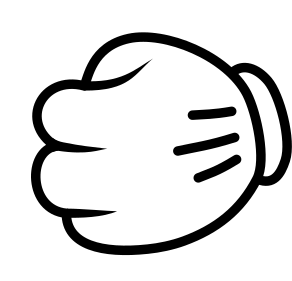
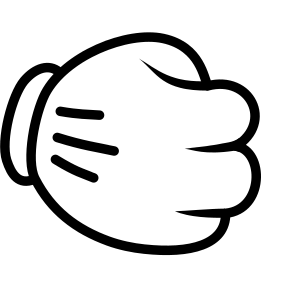
Add counting score

diff --git a/js/script.js b/js/script.js
@@ -3,13 +3,13 @@ function playGame(argPlayerInput) {
     clearMessages();
     let playerInput = argPlayerInput;
 
-    function getMoveName(argMoveId){
+    function getMoveImg(argMoveId){
         if(argMoveId == 1){
-            return 'kamień';
+            return '<img src="images/rock.png">';
         } else if(argMoveId == 2){
-            return 'papier';
+            return '<img src="images/paper.png">';
         } else if(argMoveId == 3){
-            return 'nożyce';
+            return '<img src="images/scissors.png">';
         } else {
             printMessage('Nie znam ruchu o id ' + argMoveId + '.');
             return 'nieznany ruch';
@@ -17,33 +17,38 @@ function playGame(argPlayerInput) {
     }
 
     function displayResult(argComputerMove, argPlayerMove){
-        if (argComputerMove == 'kamień' && argPlayerMove == 'papier'){
+        if (argComputerMove == 1 && argPlayerMove == 2){
+            playerPoints++;
             return 'Ty wygrywasz!';
-        } else if (argComputerMove == 'papier' && argPlayerMove == 'nożyce') {
+        } else if (argComputerMove == 2 && argPlayerMove == 3) {
+            playerPoints++;
             return 'Ty wygrywasz!';
-        } else if (argComputerMove == 'nożyce' && argPlayerMove == 'kamień') {
+        } else if (argComputerMove == 3 && argPlayerMove == 1) {
+            playerPoints++;
             return 'Ty wygrywasz!';
-        } else if (playerMove == 'nieznany ruch') {
-            return 'Co bez sensu wpisałeś :)';
         } else if (argComputerMove ==  argPlayerMove) {
             return '--- Remis --- ';
         } else {
+            computerPoints++;
             return 'Przegrałeś monsinior...';
         }
     }
-
+    
     let randomNumber = Math.floor(Math.random() * 3 + 1);
-    let computerMove = getMoveName(randomNumber);
 
-    printMessage('Mój ruch (komputera) to: ' + computerMove);
+    let computerMove = getMoveImg(randomNumber);
+    document.getElementById('computer-hand').innerHTML = computerMove;
 
-    let playerMove =  getMoveName(playerInput);
+    let playerMove =  getMoveImg(playerInput);
+    document.getElementById('player-hand').innerHTML = playerMove;
 
-    printMessage('Twój ruch człowieku to: ' + playerMove);
+    printMessage(displayResult(randomNumber, playerInput));
 
-    printMessage(displayResult(computerMove, playerMove));
-
+    document.getElementById('result').innerHTML = computerPoints + ' : ' + playerPoints;
 }
+
+let computerPoints = 0;
+let playerPoints = 0;
 
 document.getElementById('play-rock').addEventListener('click', function(){
     playGame(1);

diff --git a/sass/style.scss b/sass/style.scss
@@ -1,25 +1,103 @@
+@import url('https://fonts.googleapis.com/css?family=Roboto+Mono:400,500,700&display=swap&subset=latin-ext');
+
+*,
+*::before,
+*::after {
+    box-sizing: border-box;
+}
+
 body {
     height: 100vh;
     display: flex;
-    background: #FFE59E;
-    font-size: 32px;
-    color: #1F2041;
+    background: #1C76B8;
 }
+
+body, button {
+    font-size: 1.25rem;
+    color: #fff;
+    font-family: 'Roboto Mono', monospace;
+    outline: 0;
+}
+
+div {
+    margin: 10px;
+}
+
 .container {
     margin: auto;
-    .arena {
-        height: 150px
-    }
-    #buttons {
-        text-align: center;
-        button {
-            background: #2B4162;
-            color: #fff;
-            font-size: 20px;
-            border: none;
-            padding: 10px 20px;
-            border-radius: 10px;
+    width: 700px;
+}
 
+.arena {
+    height: 200px;
+    display: flex;
+    #computer-hand {
+        flex: 1 1;
+        display: flex;
+        align-items: center;
+        justify-content: center; 
+        position: relative;
+        background: rgba(0,0,0,0.3);
+        img {
+            height: 90%;
+        }
+        &::before {
+            position: absolute;
+            top: -20px;
+            left: 50%;
+            transform: translate(-50%, -50%);
+            content: 'Komputer';
+        }
+    }
+    #player-hand {
+        flex: 1 1;
+        display: flex;
+        align-items: center;
+        justify-content: center;
+        position: relative;
+        background: rgba(0,0,0,0.3);
+        img {
+            height: 90%;
+            transform: scaleX(-1);
+        }
+        &::before {
+            position: absolute;
+            top: -20px;
+            left: 50%;
+            transform: translate(-50%, -50%);
+            content: 'Człowiek (Ty)';
+            white-space: nowrap;
+        }
+    }
+    .pre-hand {
+        opacity: 0.5;
+        .rgt {
+            transform: scaleX(-1);
+        }
+    }
+}
+
+#messages {
+    text-align: center;
+}
+
+#result {
+    background-color: #FFFF00;
+    color: #000;
+    text-align: center;
+}
+
+#buttons {
+    text-align: right;
+    button {
+        background: #3BACFF;
+        opacity: 0.8;
+        border: none;
+        padding: 10px 20px;
+        border-radius: 10px;
+        cursor: pointer;
+        &:hover {
+            opacity: 1;
         }
     }
 }

diff --git a/css/style.css b/css/style.css
@@ -1,30 +1,124 @@
+@charset "UTF-8";
+@import url("https://fonts.googleapis.com/css?family=Roboto+Mono:400,500,700&display=swap&subset=latin-ext");
+*,
+*::before,
+*::after {
+  box-sizing: border-box;
+}
+
 body {
   height: 100vh;
   display: -ms-flexbox;
   display: flex;
-  background: #FFE59E;
-  font-size: 32px;
-  color: #1F2041;
+  background: #1C76B8;
+}
+
+body, button {
+  font-size: 1.25rem;
+  color: #fff;
+  font-family: 'Roboto Mono', monospace;
+  outline: 0;
+}
+
+div {
+  margin: 10px;
 }
 
 .container {
   margin: auto;
+  width: 700px;
 }
 
-.container .arena {
-  height: 150px;
+.arena {
+  height: 200px;
+  display: -ms-flexbox;
+  display: flex;
 }
 
-.container #buttons {
+.arena #computer-hand {
+  -ms-flex: 1 1;
+      flex: 1 1;
+  display: -ms-flexbox;
+  display: flex;
+  -ms-flex-align: center;
+      align-items: center;
+  -ms-flex-pack: center;
+      justify-content: center;
+  position: relative;
+  background: rgba(0, 0, 0, 0.3);
+}
+
+.arena #computer-hand img {
+  height: 90%;
+}
+
+.arena #computer-hand::before {
+  position: absolute;
+  top: -20px;
+  left: 50%;
+  transform: translate(-50%, -50%);
+  content: 'Komputer';
+}
+
+.arena #player-hand {
+  -ms-flex: 1 1;
+      flex: 1 1;
+  display: -ms-flexbox;
+  display: flex;
+  -ms-flex-align: center;
+      align-items: center;
+  -ms-flex-pack: center;
+      justify-content: center;
+  position: relative;
+  background: rgba(0, 0, 0, 0.3);
+}
+
+.arena #player-hand img {
+  height: 90%;
+  transform: scaleX(-1);
+}
+
+.arena #player-hand::before {
+  position: absolute;
+  top: -20px;
+  left: 50%;
+  transform: translate(-50%, -50%);
+  content: 'Człowiek (Ty)';
+  white-space: nowrap;
+}
+
+.arena .pre-hand {
+  opacity: 0.5;
+}
+
+.arena .pre-hand .rgt {
+  transform: scaleX(-1);
+}
+
+#messages {
   text-align: center;
 }
 
-.container #buttons button {
-  background: #2B4162;
-  color: #fff;
-  font-size: 20px;
+#result {
+  background-color: #FFFF00;
+  color: #000;
+  text-align: center;
+}
+
+#buttons {
+  text-align: right;
+}
+
+#buttons button {
+  background: #3BACFF;
+  opacity: 0.8;
   border: none;
   padding: 10px 20px;
   border-radius: 10px;
+  cursor: pointer;
+}
+
+#buttons button:hover {
+  opacity: 1;
 }
 /*# sourceMappingURL=style.css.map */

diff --git a/index.html b/index.html
@@ -8,8 +8,11 @@
 <body>
 	<div class="container">
 		<div class="arena">
-			<div id="messages"></div>
+			<div id="computer-hand"><img src="images/rock.png" class="pre-hand"></div>
+			<div id="player-hand"><img src="images/rock.png" class="pre-hand rgt"></div>
 		</div>
+		<div id="messages">Zacznij grę! (wybierz swój ruch niżej)</div>
+		<div id="result">0 : 0</div>
 		<div id="buttons">
 			<button id="play-rock">Kamień</button>
 			<button id="play-paper">Papier</button>
